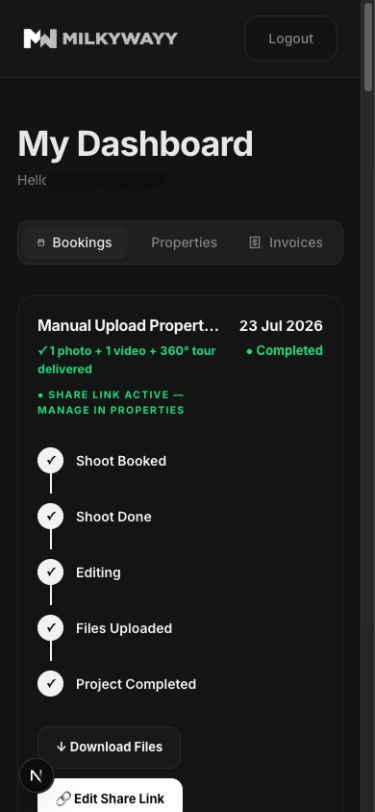
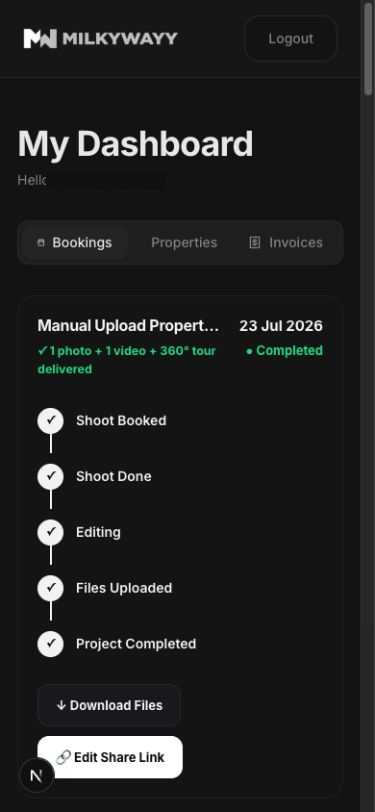
Remove booking share status label (#93)

diff --git a/src/app/dashboard/bookings/__tests__/BookingList.test.jsx b/src/app/dashboard/bookings/__tests__/BookingList.test.jsx
@@ -238,6 +238,38 @@ describe("BookingList", () => {
     ).toBeInTheDocument();
   });
 
+  it("shows Edit Share Link without a separate active-link label", () => {
+    render(
+      <BookingList
+        bookings={[
+          {
+            ...mockBookings[0],
+            status: "COMPLETED",
+            workflowStatus: "PROJECT_COMPLETED",
+            deliveryFiles: [
+              { id: 10, type: "Photography", status: "ACCEPTED" },
+            ],
+          },
+        ]}
+        propertySharing={{
+          eligibleProperties: [],
+          shares: [
+            {
+              kind: "SINGLE_PROPERTY",
+              properties: [{ bookingId: 1 }],
+            },
+          ],
+          savedContacts: [],
+        }}
+      />,
+    );
+
+    expect(
+      screen.getByRole("button", { name: /edit share link/i }),
+    ).toBeInTheDocument();
+    expect(screen.queryByText(/share link active/i)).not.toBeInTheDocument();
+  });
+
   it("keeps Create Share Link as a direct, injectable booking action", () => {
     const onCreateShareLink = jest.fn();
     render(

diff --git a/src/app/dashboard/bookings/BookingList.jsx b/src/app/dashboard/bookings/BookingList.jsx
@@ -805,11 +805,6 @@ export default function BookingList({
                     "Standard Shoot"}
                 </p>
               )}
-              {getShareState(booking).share ? (
-                <p className="mt-2.5 text-[10.5px] font-extrabold uppercase tracking-[0.12em] text-green-400">
-                  ● Share link active — manage in Properties
-                </p>
-              ) : null}
             </div>
             <div className="shrink-0 whitespace-nowrap text-right">
               <div className="text-[15px] font-bold text-zinc-100">

diff --git a/docs/customer-property-sharing/proof/issue-93/README.md b/docs/customer-property-sharing/proof/issue-93/README.md
@@ -53,7 +53,8 @@ real active single/master shares after applying the migration.
   delivery remains visually on Editing without mutating persisted workflow,
   and the exact strict breakpoint changes the tracker from horizontal to
   vertical. Eligible booking cards open the listing form directly; Download
-  Files opens the shared delivery/review modal.
+  Files opens the shared delivery/review modal. Published booking cards retain
+  **Edit Share Link** without rendering a separate active-link label.
 
 No bearer identifiers, saved-contact values beyond disposable development
 fixtures, filenames, or storage URLs are recorded in this proof.
@@ -68,7 +69,7 @@ fixtures, filenames, or storage URLs are recorded in this proof.
 - Properties consolidation suite: 6 suites and 52 tests passed, covering the
   shared booking modal, Ready-card launch path, retained completion rules,
   removed duplicate section, dashboard layout, and Bookings compatibility.
-- Booking-card follow-up suite: 17 tests passed, covering all five tracker
+- Booking-card follow-up suite: 18 tests passed, covering all five tracker
   states, completed-step treatment, partial-delivery display mapping, the exact
   `900×560` boundary, both narrow predicates, scheduled action isolation,
   direct listing-form launch, and the shared download/review modal.

diff --git a/docs/booking-file-delivery/README.md b/docs/booking-file-delivery/README.md
@@ -76,9 +76,9 @@ as ready categories.
 Delivery-state cards expose **Download Files** directly into the reusable
 authenticated delivery/review modal. Eligible unshared projects open the real
 **Create Share Link** listing modal directly from Bookings; published projects
-show the active-link state and route **Edit Share Link** back to Properties.
-Scheduled Reschedule/Cancel controls do not leak into partial, uploaded, or
-completed delivery states.
+expose **Edit Share Link** without a separate active-link label. Scheduled
+Reschedule/Cancel controls do not leak into partial, uploaded, or completed
+delivery states.
 
 A customer revision request identifies only the booking and service type. The
 server authorizes that owner-scoped group, locks the booking and its current

diff --git a/docs/customer-property-sharing/README.md b/docs/customer-property-sharing/README.md
@@ -75,9 +75,9 @@ surface.
 
 The Bookings cards use the same share eligibility snapshot as Properties.
 Eligible partial or delivered cards open the listing form directly for
-**Create Share Link**; already-published cards show the active-link state and
-an **Edit Share Link** action. This avoids a generic route handoff before the
-owner can configure the listing.
+**Create Share Link**; already-published cards expose **Edit Share Link**
+without a separate active-link label. This avoids a generic route handoff
+before the owner can configure the listing.
 
 Safe current under-review or accepted uploads synchronize into every affected
 single and master link automatically. New logical files append visibly;
